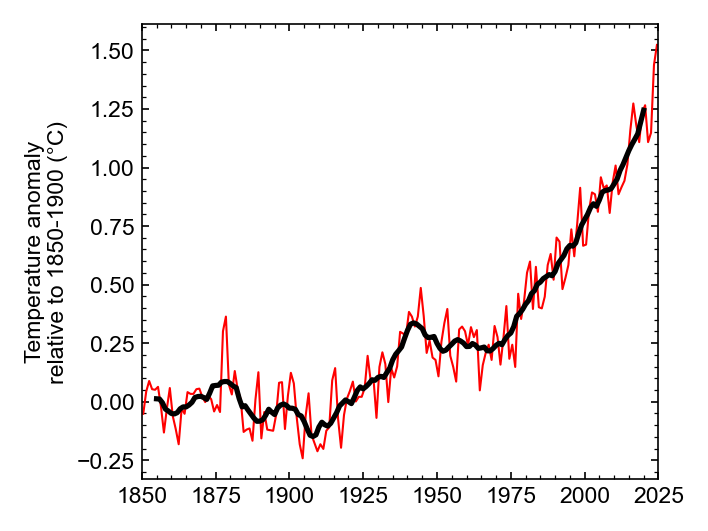
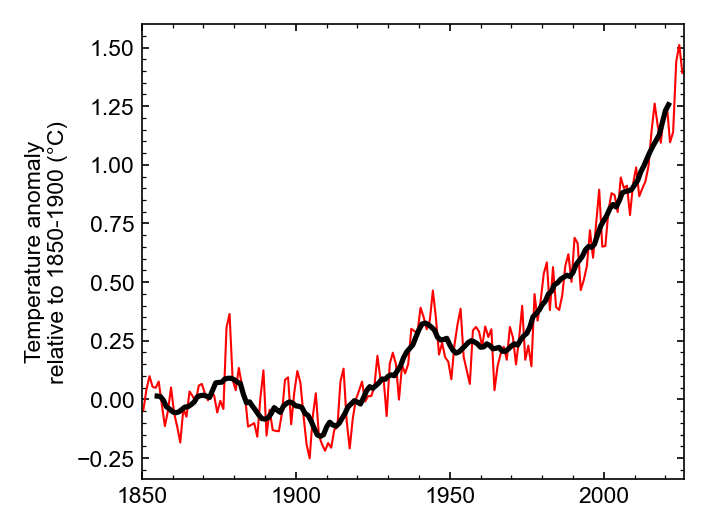
Merge pull request #46 from ClimateIndicator/gmst-plot-update
update GMST plot

Pull request: update GMST plot

diff --git a/notebooks/temperature-plot.py b/notebooks/temperature-plot.py
@@ -28,7 +28,7 @@ import os
 os.makedirs('../plots', exist_ok=True)
 
 # %%
-df_gmst = pd.read_csv('../data/gmst/IGCC_GMST_1850-2024.csv')
+df_gmst = pd.read_csv('../data/gmst/IGCC_GMST.csv')
 
 # %%
 df_gmst
@@ -53,9 +53,9 @@ pl.rcParams['xtick.top'] = True
 pl.rcParams['figure.dpi'] = 150
 
 # %%
-pl.plot(df_gmst.year, df_gmst.gmst, lw=1, color='r')
-pl.plot(df_gmst_10.year, df_gmst_10.gmst, lw=2.5, color='k')
-pl.xlim(1850, 2025)
+pl.plot(df_gmst.time, df_gmst.GMST, lw=1, color='r')
+pl.plot(df_gmst_10.time, df_gmst_10.GMST, lw=2.5, color='k')
+pl.xlim(1850, 2026)
 pl.ylabel('Temperature anomaly\nrelative to 1850-1900 (°C)')
 pl.tight_layout()
 pl.savefig('../plots/gmst.png')